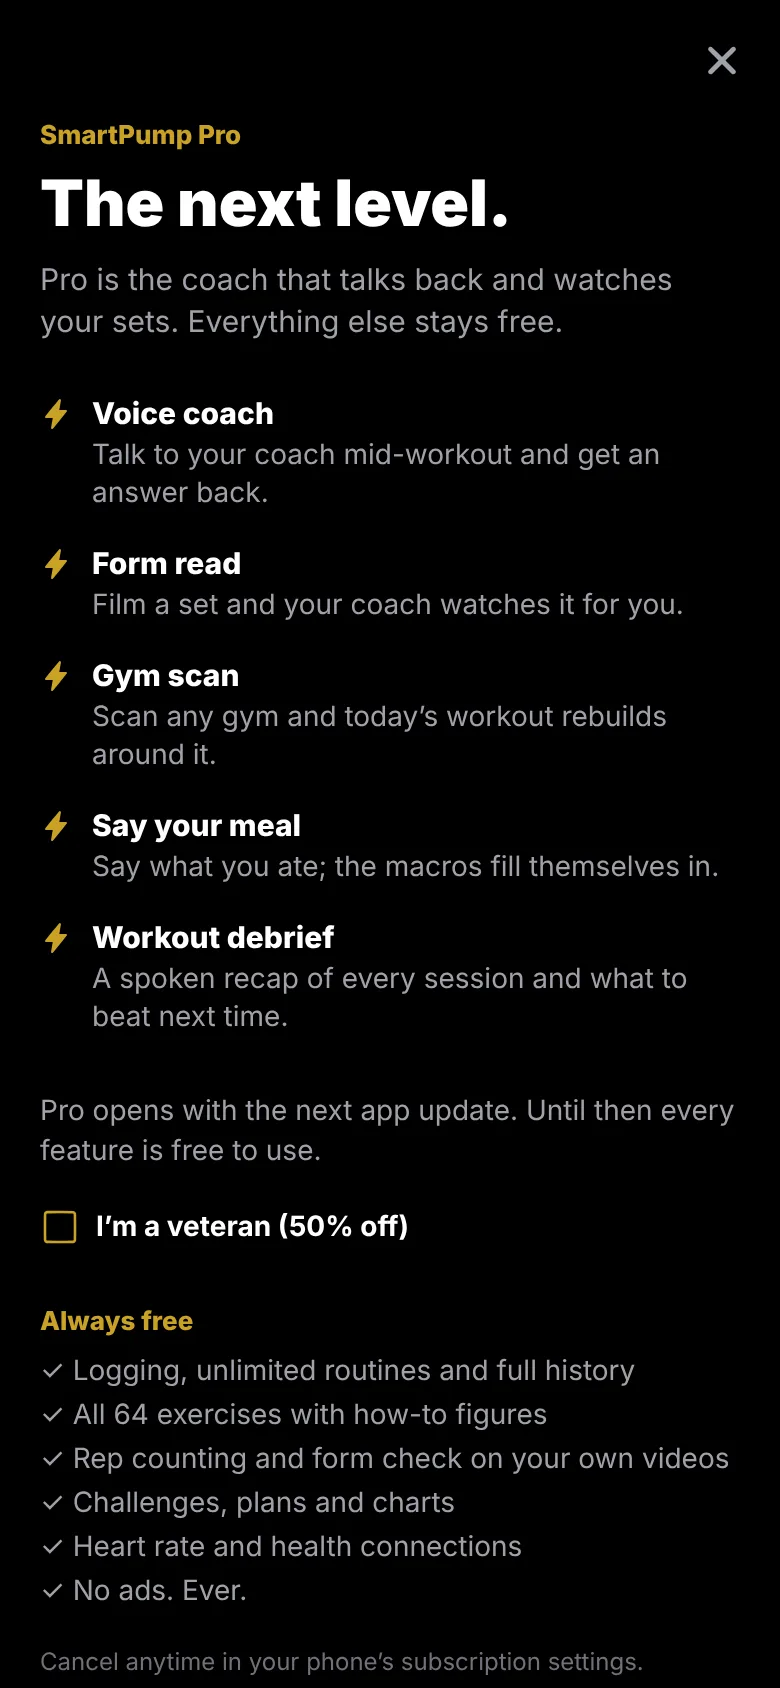
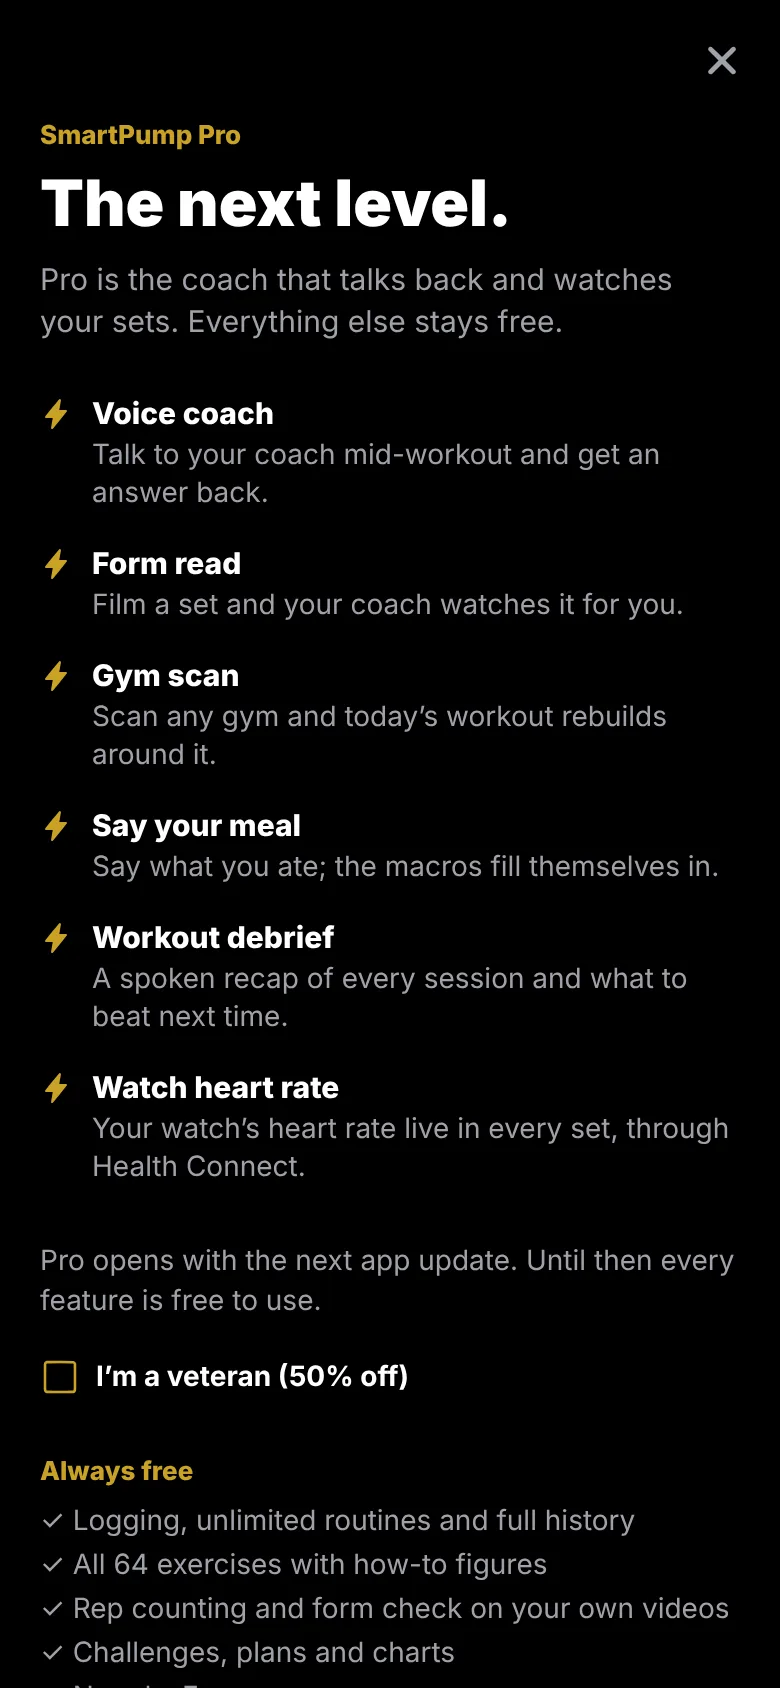
SmartPump page: watch heart rate moves to Pro
Matches smartpump-beta PR #5 (Tim, Nov 14). The Pro list gains Watch heart
rate, the Free list drops it, and the Pro screenshot is retaken from the
updated app.

Claude-Session: https://claude.ai/code/session_012gehGdmxqy6gCn9v8ryfNK

diff --git a/smartpump.html b/smartpump.html
@@ -161,7 +161,7 @@ footer a{color:var(--silver);text-decoration:none;border-bottom:1px solid var(--
         <figure><img src="/img/pump-welcome.webp" width="780" height="1688" loading="lazy" alt="SmartPump welcome screen with the logo and a Begin button"><figcaption>Start in one tap.</figcaption></figure>
         <figure><img src="/img/pump-train.webp" width="780" height="1688" loading="lazy" alt="Session plan listing bench press, overhead press and barbell row with figure thumbnails and weights"><figcaption>Today&rsquo;s plan, set from your last session.</figcaption></figure>
         <figure><img src="/img/pump-challenges.webp" width="780" height="1688" loading="lazy" alt="Iron challenges list: Golden Era Chest Blitz, Back Density Assault, Arm Annihilator"><figcaption>Classic routines, scaled to your bodyweight.</figcaption></figure>
-        <figure><img src="/img/pump-pro.webp" width="780" height="1688" loading="lazy" alt="SmartPump Pro screen listing voice coach, form read, gym scan, say your meal and workout debrief, with what stays free"><figcaption>Pro, and everything that stays free.</figcaption></figure>
+        <figure><img src="/img/pump-pro.webp" width="780" height="1688" loading="lazy" alt="SmartPump Pro screen listing voice coach, form read, gym scan, say your meal, workout debrief and watch heart rate, with what stays free"><figcaption>Pro, and everything that stays free.</figcaption></figure>
       </div>
     </div>
   </section>
@@ -182,7 +182,6 @@ footer a{color:var(--silver);text-decoration:none;border-bottom:1px solid var(--
             <li><span><b>All 64 exercises</b> with how-to figures.</span></li>
             <li><span><b>Rep counting and form check</b> on sets you film, on your phone.</span></li>
             <li><span><b>Challenges and plans.</b> Classic routines and a plan that adapts.</span></li>
-            <li><span><b>Heart rate and health connections.</b></span></li>
           </ul>
         </div>
         <div class="panel">
@@ -194,6 +193,7 @@ footer a{color:var(--silver);text-decoration:none;border-bottom:1px solid var(--
             <li><span><b>Gym scan.</b> Scan any gym and today&rsquo;s workout rebuilds around it.</span></li>
             <li><span><b>Say your meal.</b> Say what you ate; the macros fill in.</span></li>
             <li><span><b>Workout debrief.</b> A spoken recap and what to beat next time.</span></li>
+            <li><span><b>Watch heart rate.</b> Your watch&rsquo;s heart rate live in every set.</span></li>
           </ul>
           <p class="note">Try each Pro feature three times free. Veterans get 50% off.</p>
         </div>
